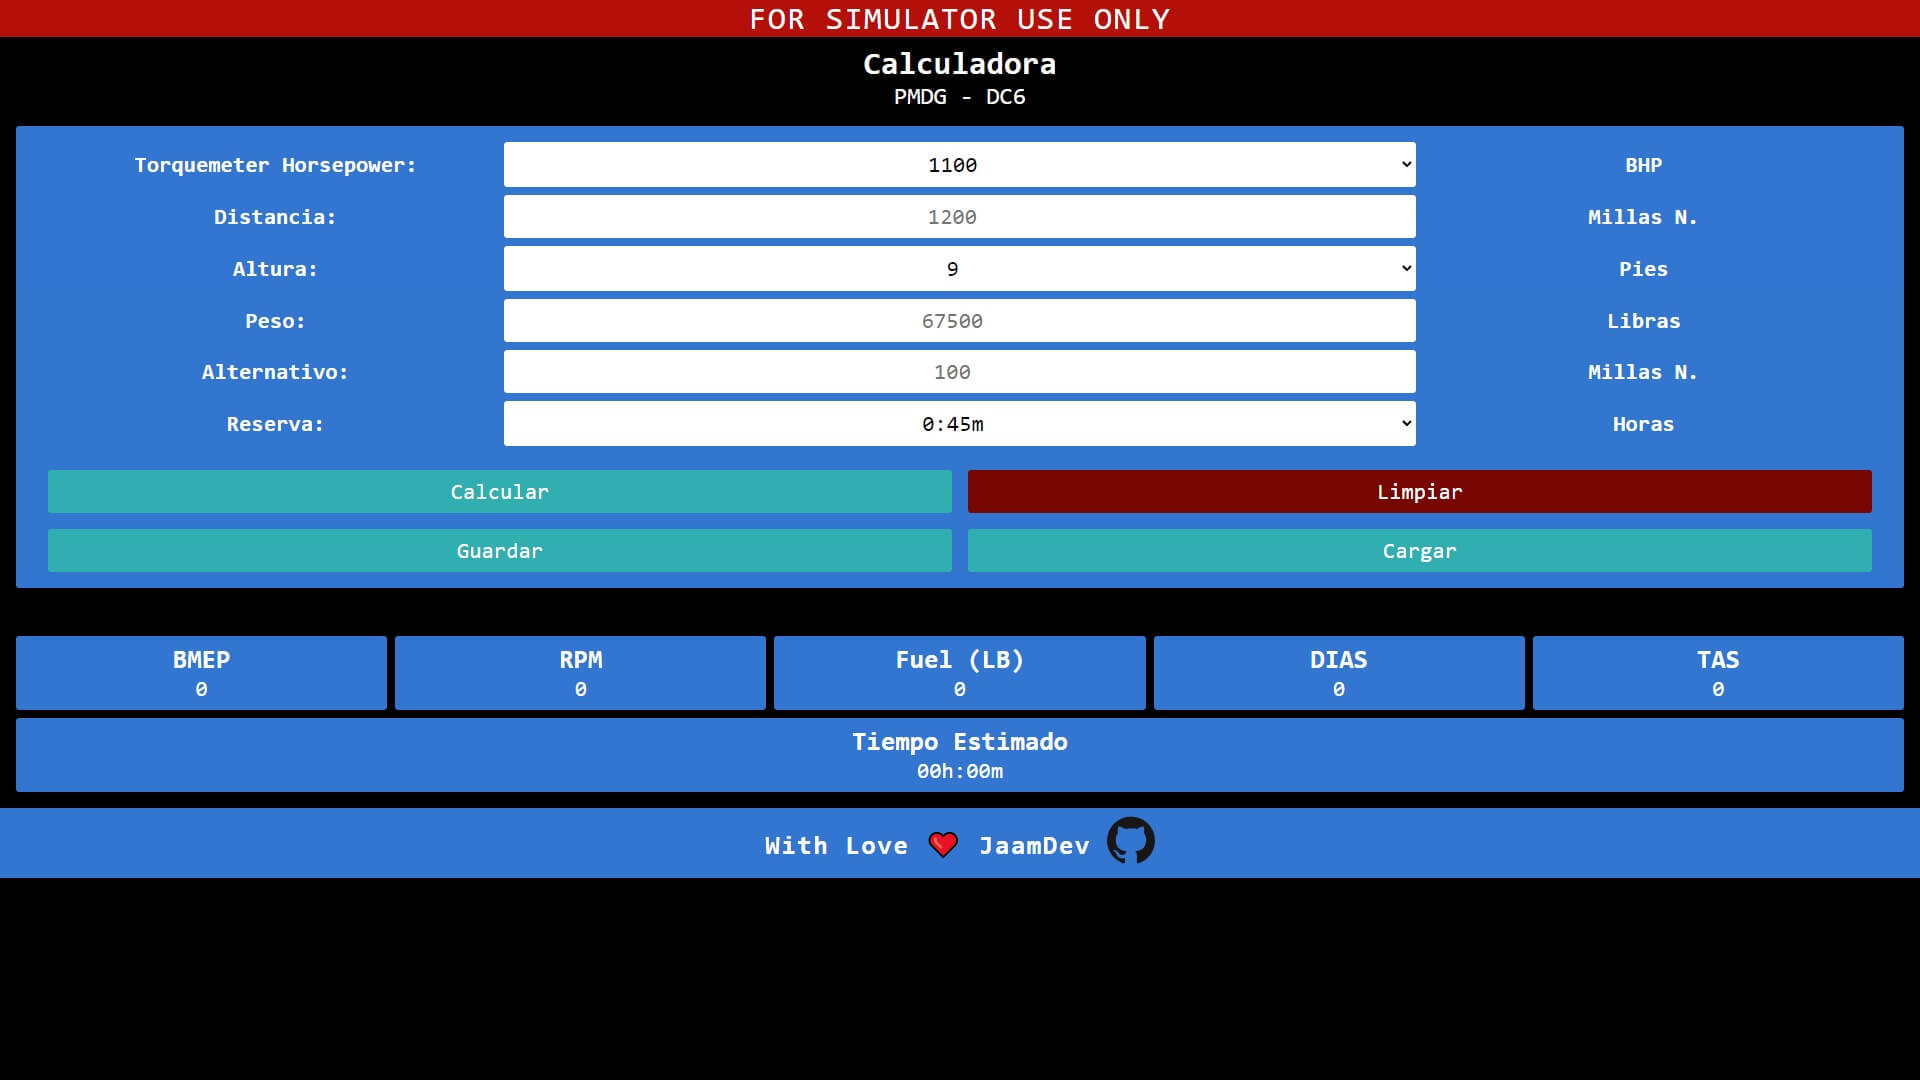
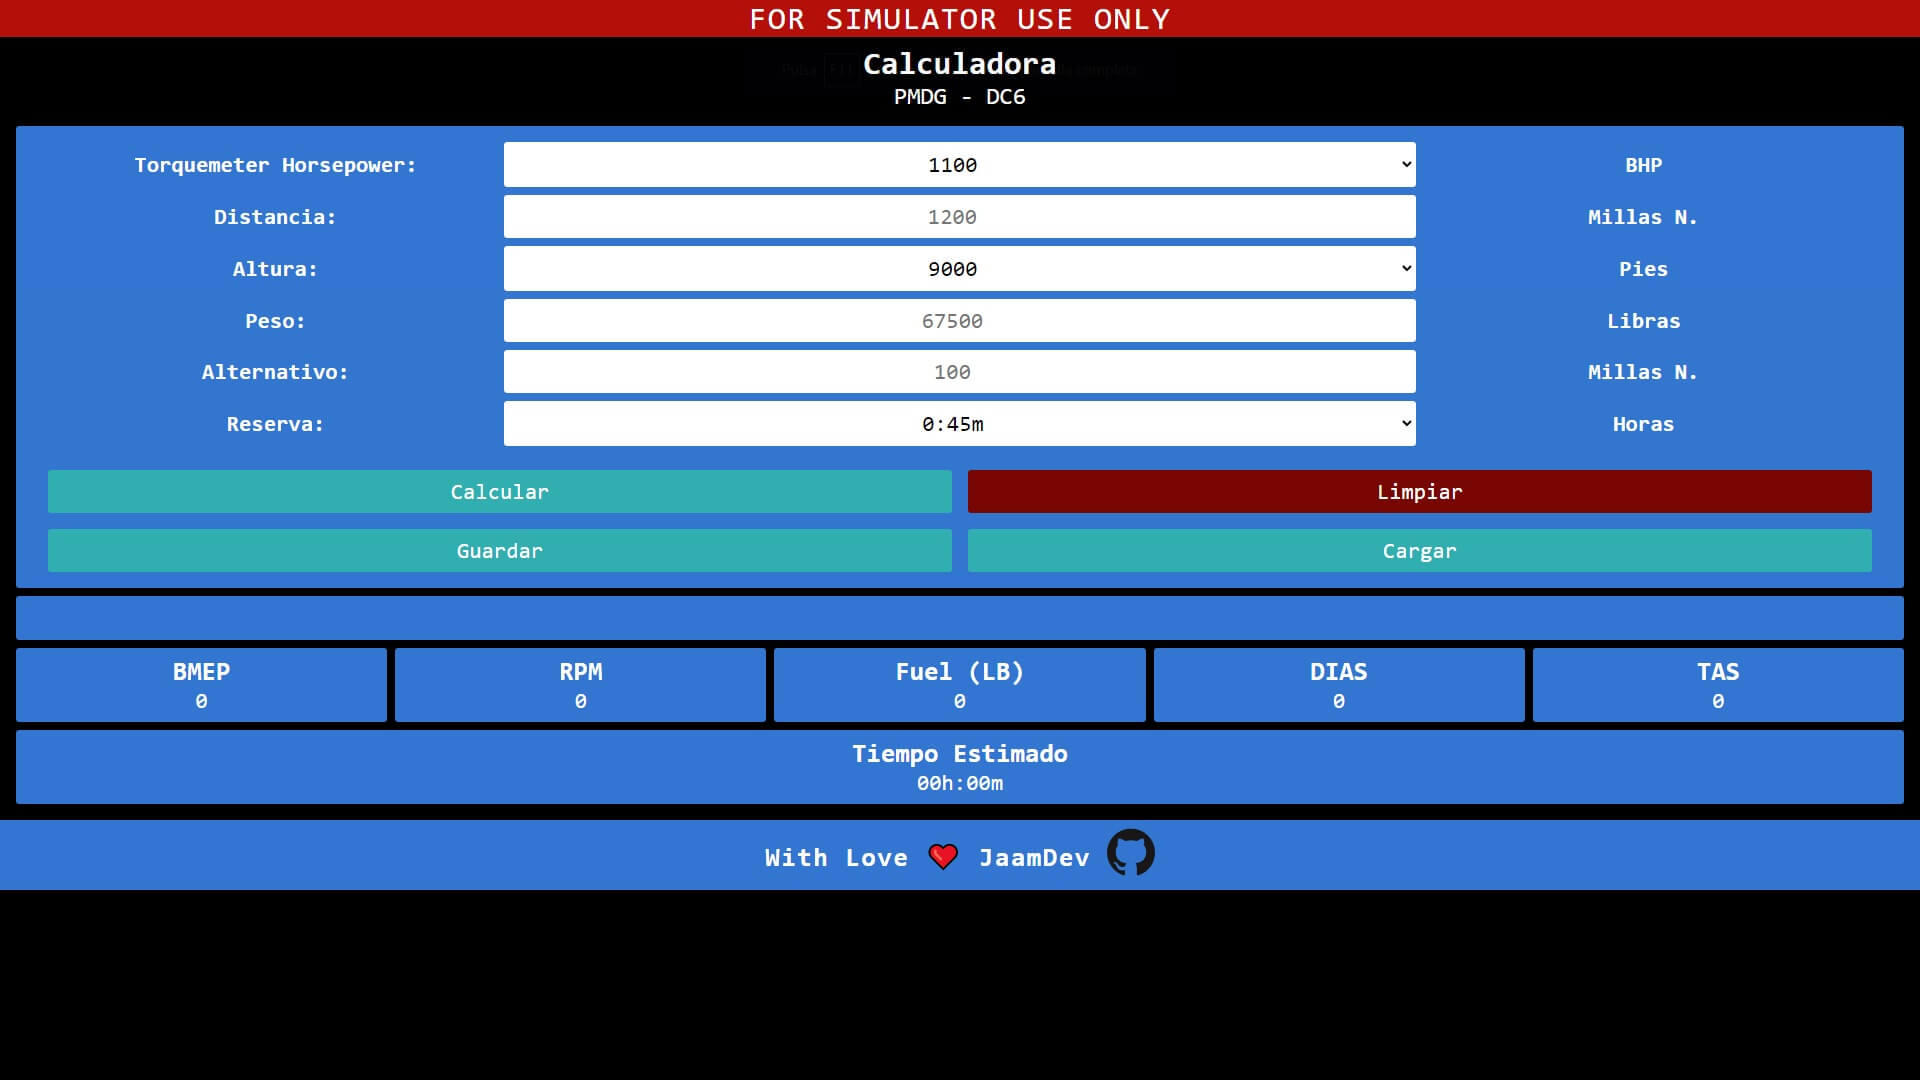
Style and image updated

Changed region(s): [[0.0, 0.55, 1.0, 0.825], [0.4688, 0.2444, 0.5, 0.275]]

diff --git a/index.css b/index.css
@@ -121,15 +121,26 @@ option:disabled{
 	background-color: #f00;
 }
 
+.error_ctn {
+	margin: 0.5rem auto;
+	width: 100%;
+	border-radius: 0.2rem;
+	user-select: none;
+}
+
 .error {
-	margin: 1rem auto;
-	padding: 0.5rem 1rem;
-	color: #fff;
-	background-color: transparent;
+	padding: 0.5rem;
+	color: var(--color-primary);
+	background-color: var(--color-primary);
 	font-size: 1.5em;
 	font-weight: bold;
 	letter-spacing: 0.1rem;
 	border-radius: 0.2rem;
+}
+
+.error.active,
+.error.success {
+	color: #fff;
 }
 
 .error.active {
@@ -138,7 +149,7 @@ option:disabled{
 }
 
 .error.success {
-	background-color: green;
+	background-color: #009100;
 }
 
 @keyframes error {

diff --git a/index.js b/index.js
@@ -219,7 +219,7 @@ function setSuccess(message){
 		errorDisplay.innerHTML = message
 		errorDisplay.classList.add('success')
 	}else{
-		errorDisplay.innerHTML = ""
+		errorDisplay.innerHTML = "errores"
 		errorDisplay.classList.remove('success')
 	}
 
@@ -232,7 +232,7 @@ function setError(error){
 		errorDisplay.innerHTML = error
 		errorDisplay.classList.add('active')
 	}else{
-		errorDisplay.innerHTML = ""
+		errorDisplay.innerHTML = "errores"
 		errorDisplay.classList.remove('active')
 	}
 

diff --git a/index.html b/index.html
@@ -110,7 +110,9 @@
           <button type="button">Cargar</button>
         </fieldset>
       </form>
-      <p class="error"></p>
+      <div class="error_ctn">
+        <p class="error">sin errores</p>
+      </div>
       <section class="results_ctn">
         <article>
           <h3>BMEP</h3>
